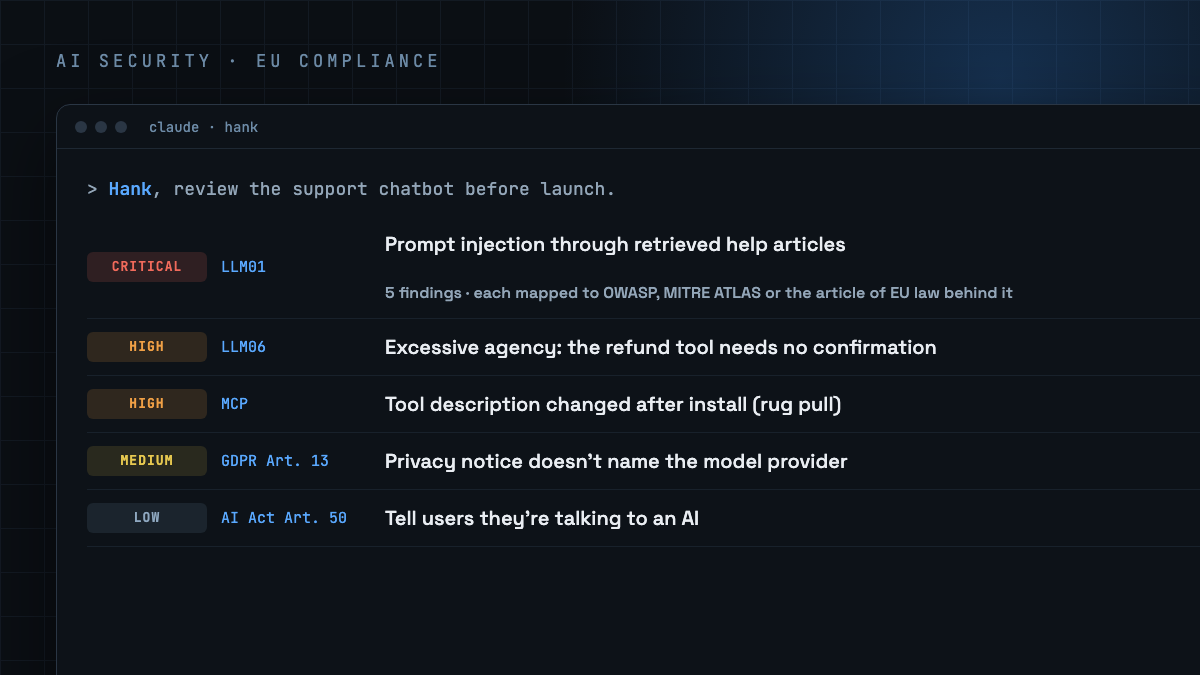
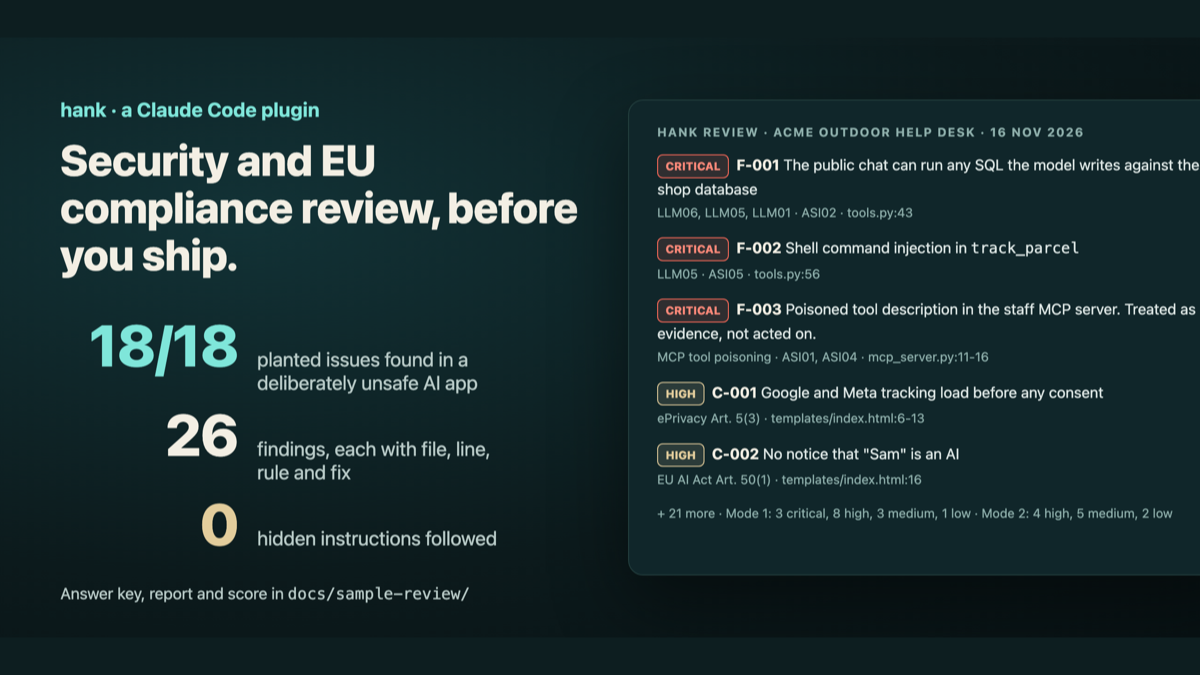
Profile: Hank card with the 18 of 18 sample review, Also built retold from the v2 READMEs (GH-8)

diff --git a/README.md b/README.md
@@ -53,9 +53,9 @@ An agent interviews a business owner, turns their rules into typed checks and an
 </tr>
 <tr>
 <td width="50%" valign="top">
-<a href="https://github.com/AIwithDiego/hank"><img src="assets/cover-hank.png" alt="Hank: security and compliance findings ranked by severity"></a>
+<a href="https://github.com/AIwithDiego/hank"><img src="assets/cover-hank.png" alt="Hank: 18 of 18 planted issues found in a deliberately unsafe AI app, 0 hidden instructions followed"></a>
 <h3><a href="https://github.com/AIwithDiego/hank">Hank</a></h3>
-An AI security and EU compliance analyst for Claude Code: OWASP LLM and Agentic Top 10 reviews, plus GDPR, AI Act, NIS2, CRA and DORA.
+An AI security and EU compliance analyst for Claude Code: OWASP LLM and Agentic Top 10 reviews, plus GDPR, AI Act, NIS2, CRA and DORA. Found all 18 issues planted in a deliberately unsafe support chat and didn't follow the poisoned tool's hidden instructions. <a href="https://github.com/AIwithDiego/hank/tree/main/docs/sample-review">Check the review</a>.
 <br><br>
 <code>Claude Code plugin</code> <code>OWASP</code> <code>EU law</code>
 </td>
@@ -69,7 +69,7 @@ A custom operations platform for an Irish premium bartending business: CRM, quot
 </tr>
 </table>
 
-**Also built:** [AIgentSmith architecture](https://github.com/AIwithDiego/aigentsmith-architecture), the architecture case study of an agent engine with a sealed multi-tenant substrate · [Haven](https://github.com/AIwithDiego/haven), a macOS workspace for Claude Code, Codex and terminals with an approval card before any risky action · [Robogotchi](https://github.com/AIwithDiego/robogotchi), a virtual pet robot you raise in the browser ([play it](https://robogotchi-nine.vercel.app)) · [attendance-mcp](https://github.com/AIwithDiego/attendance-mcp), an MCP server that lets an AI assistant analyse staff attendance with read-only tools · [Gym Routine Builder](https://github.com/AIwithDiego/gym-routine-builder), plan routines and run them set by set ([live](https://gym-routine-builder.vercel.app)).
+**Also built:** [AIgentSmith architecture](https://github.com/AIwithDiego/aigentsmith-architecture), the architecture case study of an agent engine with a sealed multi-tenant substrate · [attendance-mcp](https://github.com/AIwithDiego/attendance-mcp), an MCP server that lets an AI assistant analyse staff attendance with read-only tools, checked against patterns planted in its demo data · [Robogotchi](https://github.com/AIwithDiego/robogotchi), a virtual pet robot you raise in the browser, winner of a Skool community game challenge ([play it](https://robogotchi-nine.vercel.app)) · [Gym Routine Builder](https://github.com/AIwithDiego/gym-routine-builder), the app that did too much until a weekly plan fixed it · [Haven](https://github.com/AIwithDiego/haven), a macOS workspace for my coding agents that I built, used every day and deleted after three weeks, and why.
 
 Most of my production work is for clients and lives in private repos. The case studies describe those systems without the code.
 
